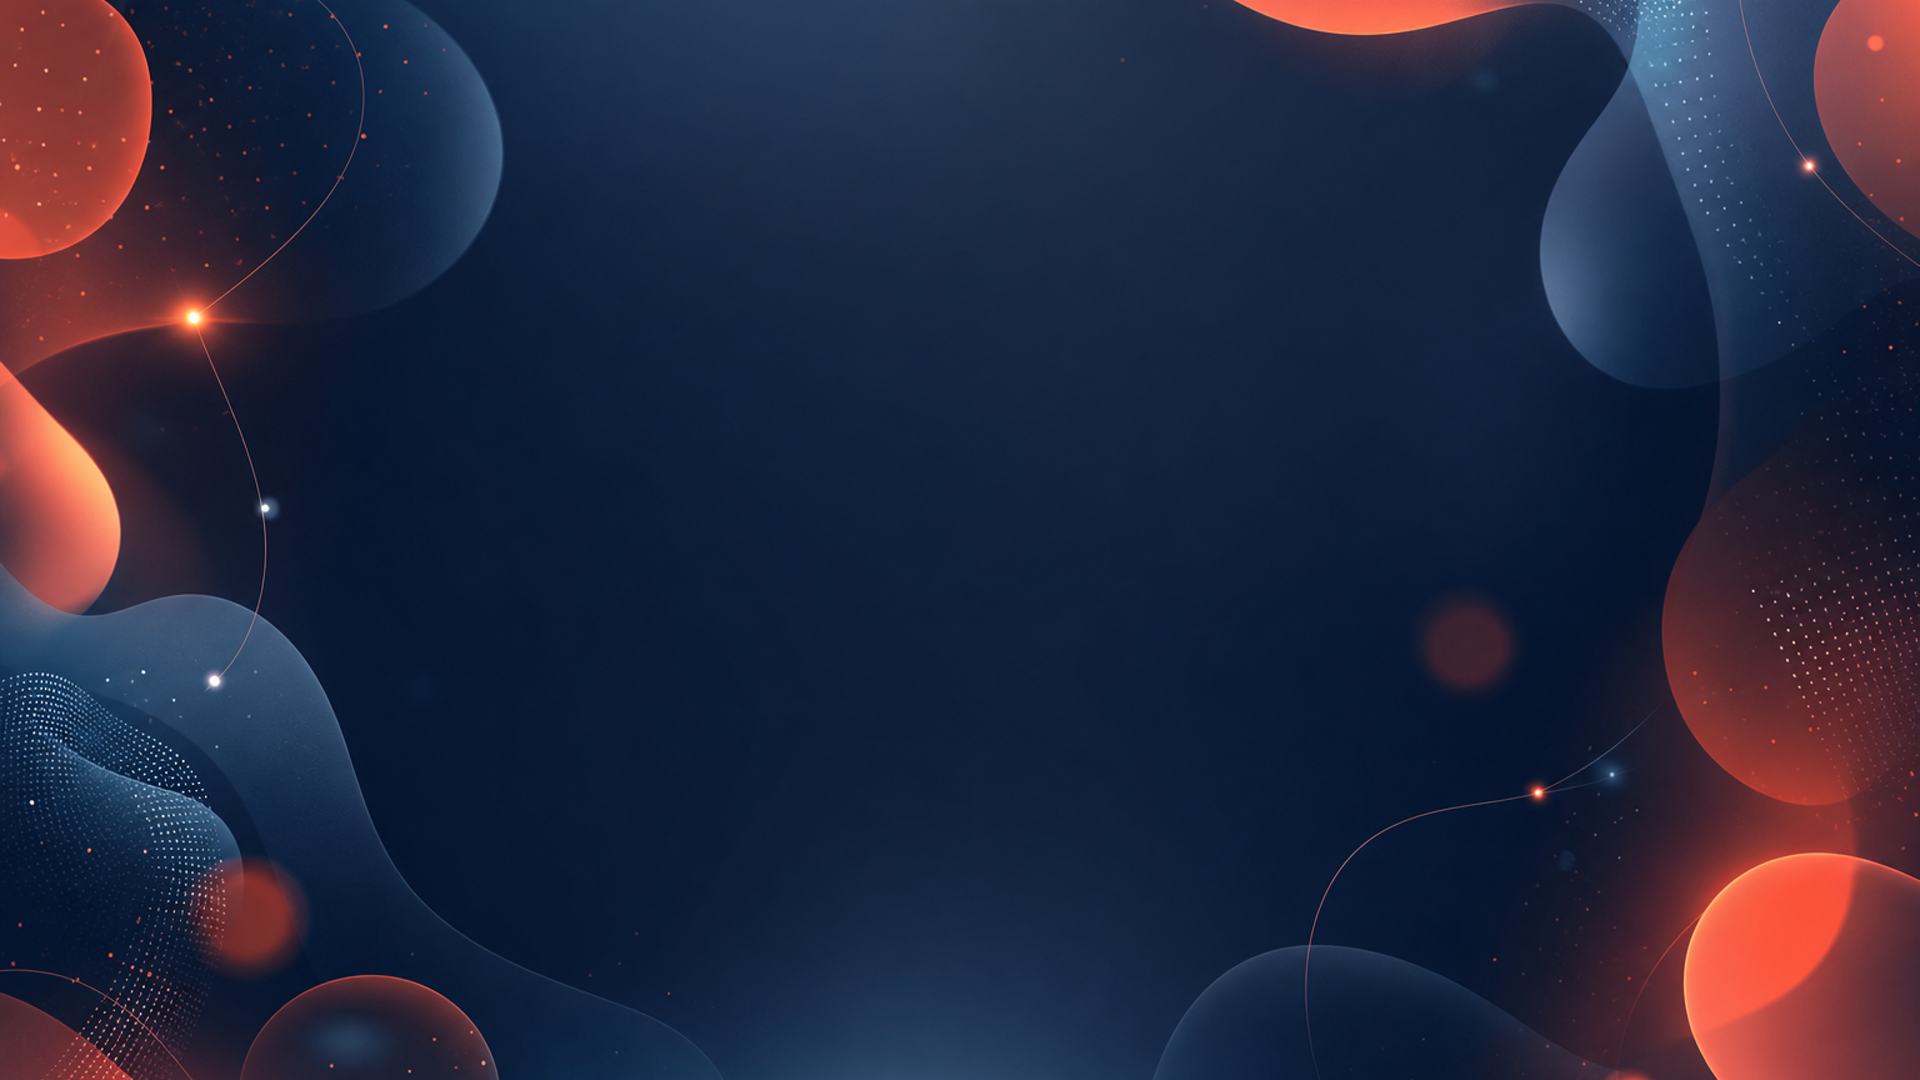
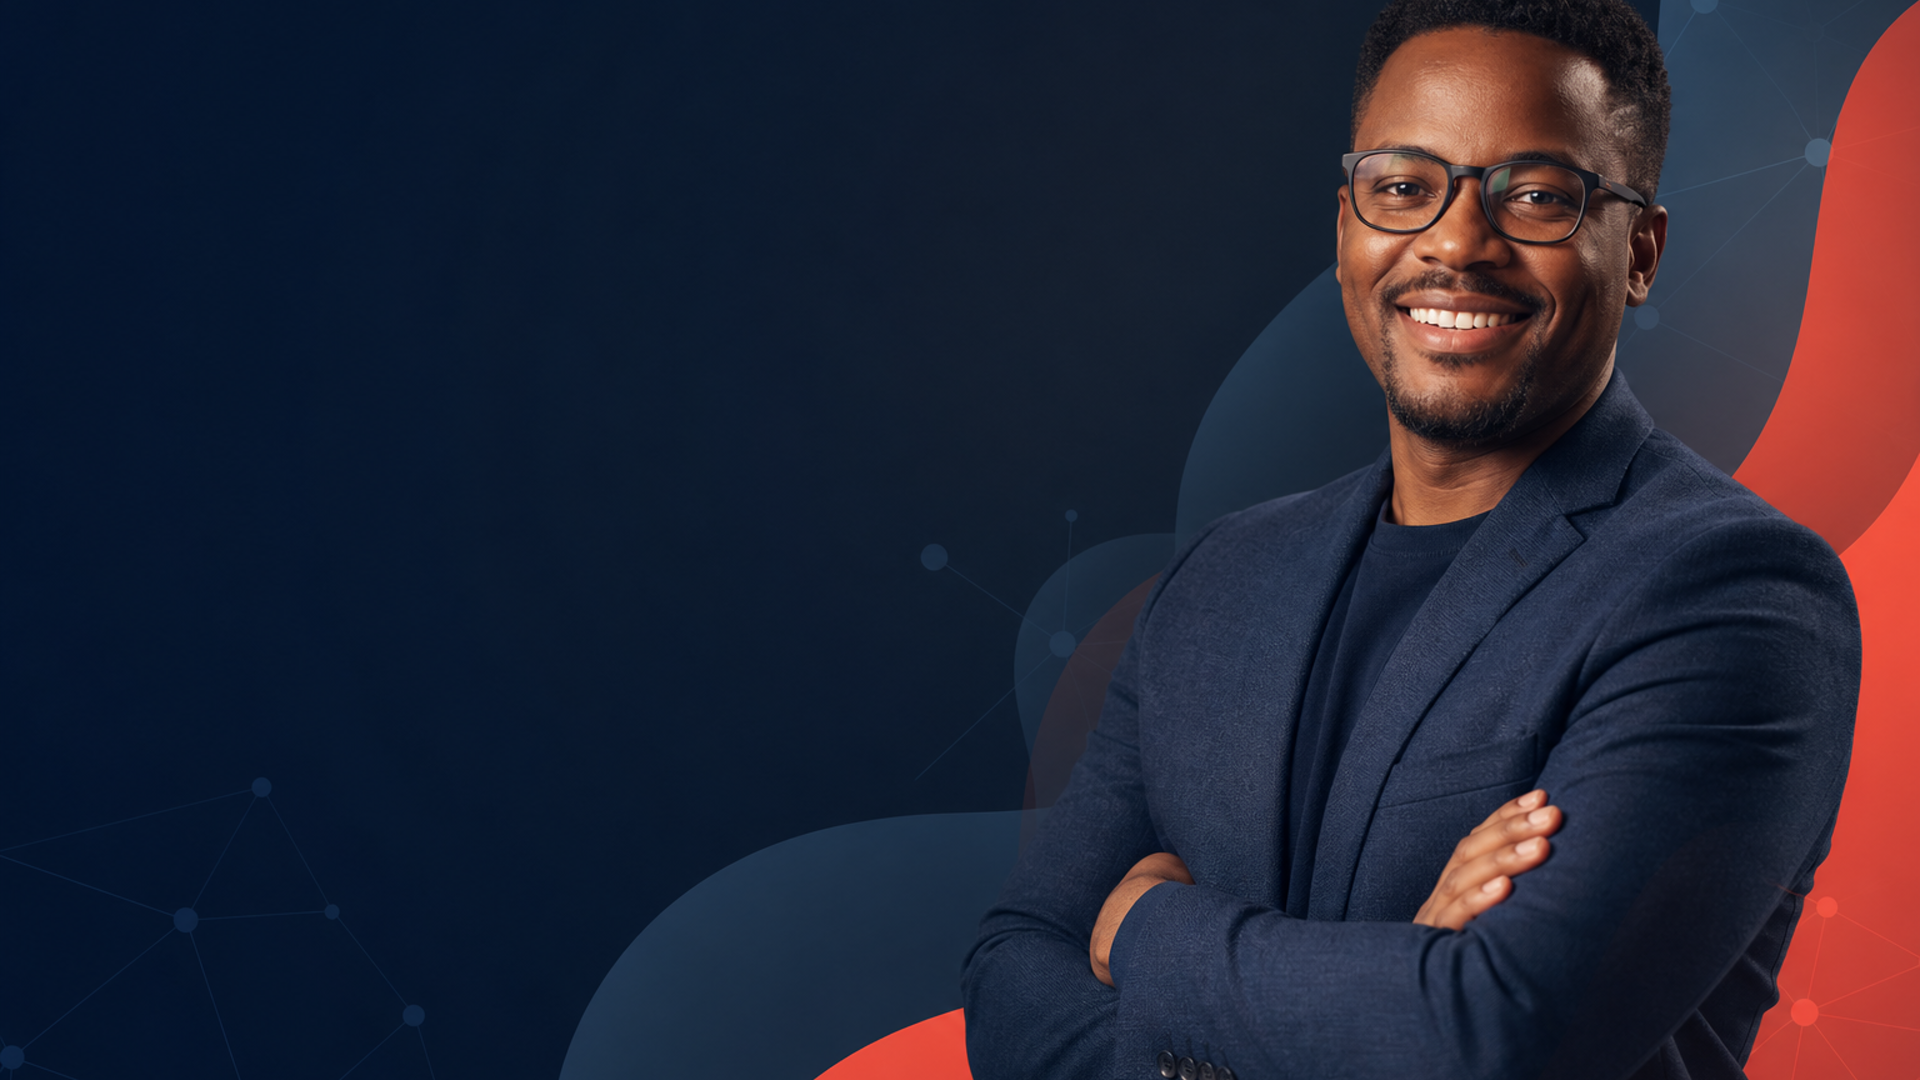
Add Andela-style hero with professional person portrait
Regenerate the hero background with an authentic talent portrait on the
right, organic brand-colored shapes, and a dark left zone for copy. Update
layout to left-aligned text with a directional gradient overlay.

diff --git a/components/hero-section.tsx b/components/hero-section.tsx
@@ -43,12 +43,12 @@ export function HeroSection() {
         fill
         priority
         sizes="100vw"
-        className="object-cover object-center"
+        className="object-cover object-[70%_center] lg:object-right"
         aria-hidden="true"
       />
 
       <div
-        className="pointer-events-none absolute inset-0 bg-[radial-gradient(ellipse_at_center,rgba(11,31,58,0.42)_0%,rgba(11,31,58,0.12)_42%,transparent_68%)]"
+        className="pointer-events-none absolute inset-0 bg-[linear-gradient(90deg,rgba(11,31,58,0.88)_0%,rgba(11,31,58,0.72)_38%,rgba(11,31,58,0.28)_58%,transparent_78%)]"
         aria-hidden="true"
       />
 
@@ -68,8 +68,8 @@ export function HeroSection() {
           </div>
         </header>
 
-        <div className="relative z-10 flex flex-1 items-center justify-center py-14 lg:py-10">
-          <div className="mx-auto max-w-4xl text-center motion-safe:animate-in motion-safe:fade-in motion-safe:slide-in-from-bottom-4 motion-safe:duration-700">
+        <div className="relative z-10 flex flex-1 items-center py-14 lg:py-10">
+          <div className="mx-auto max-w-3xl text-center motion-safe:animate-in motion-safe:fade-in motion-safe:slide-in-from-bottom-4 motion-safe:duration-700 lg:mx-0 lg:max-w-xl lg:text-left xl:max-w-2xl">
             <div className="mb-7 inline-flex items-center gap-2 rounded-full border border-[#F4F6F9]/15 bg-[#0B1F3A]/45 px-4 py-2 text-sm font-semibold text-[#F4F6F9] shadow-[0_18px_48px_rgba(11,31,58,0.24)] backdrop-blur">
               <ShieldCheck className="size-4 text-[#E85D4C]" aria-hidden="true" />
               Enterprise outsourcing built around accountability
@@ -87,7 +87,7 @@ export function HeroSection() {
               . Not hours.
             </h1>
 
-            <p className="mx-auto mt-7 max-w-2xl text-pretty text-lg leading-8 text-[#F4F6F9]/75 sm:text-xl">
+            <p className="mx-auto mt-7 max-w-2xl text-pretty text-lg leading-8 text-[#F4F6F9]/75 sm:text-xl lg:mx-0">
               Apex Vector helps enterprise teams scale faster with vetted global
               specialists, measurable delivery targets, and AI-assisted
               workflows engineered to improve performance from day one.
@@ -100,7 +100,7 @@ export function HeroSection() {
                 return (
                   <div
                     key={item.label}
-                    className="flex items-center justify-center gap-2 rounded-2xl border border-[#F4F6F9]/12 bg-[#0B1F3A]/40 px-4 py-3 text-sm font-semibold text-[#F4F6F9] shadow-[0_16px_40px_rgba(11,31,58,0.2)] backdrop-blur"
+                    className="flex items-center justify-center gap-2 rounded-2xl border border-[#F4F6F9]/12 bg-[#0B1F3A]/40 px-4 py-3 text-sm font-semibold text-[#F4F6F9] shadow-[0_16px_40px_rgba(11,31,58,0.2)] backdrop-blur lg:justify-start"
                   >
                     <Icon className="size-4 text-[#E85D4C]" aria-hidden="true" />
                     <span>{item.label}</span>
@@ -109,7 +109,7 @@ export function HeroSection() {
               })}
             </div>
 
-            <div className="mt-10 flex flex-col items-center justify-center gap-4 sm:flex-row">
+            <div className="mt-10 flex flex-col items-center justify-center gap-4 sm:flex-row lg:justify-start">
               <Button
                 asChild
                 size="lg"